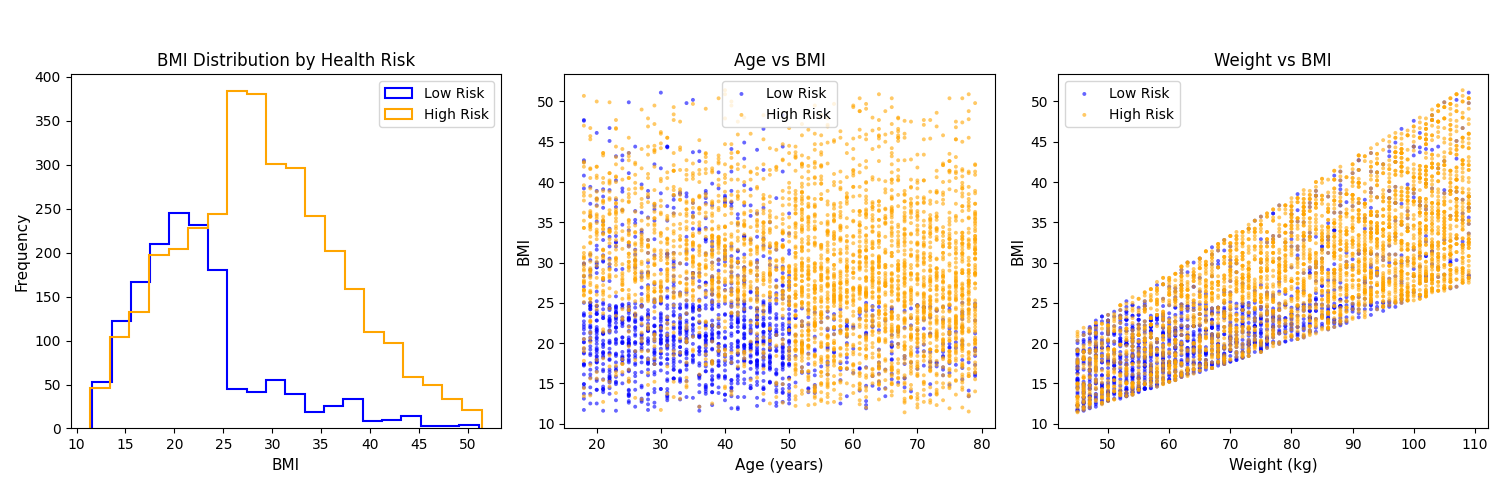
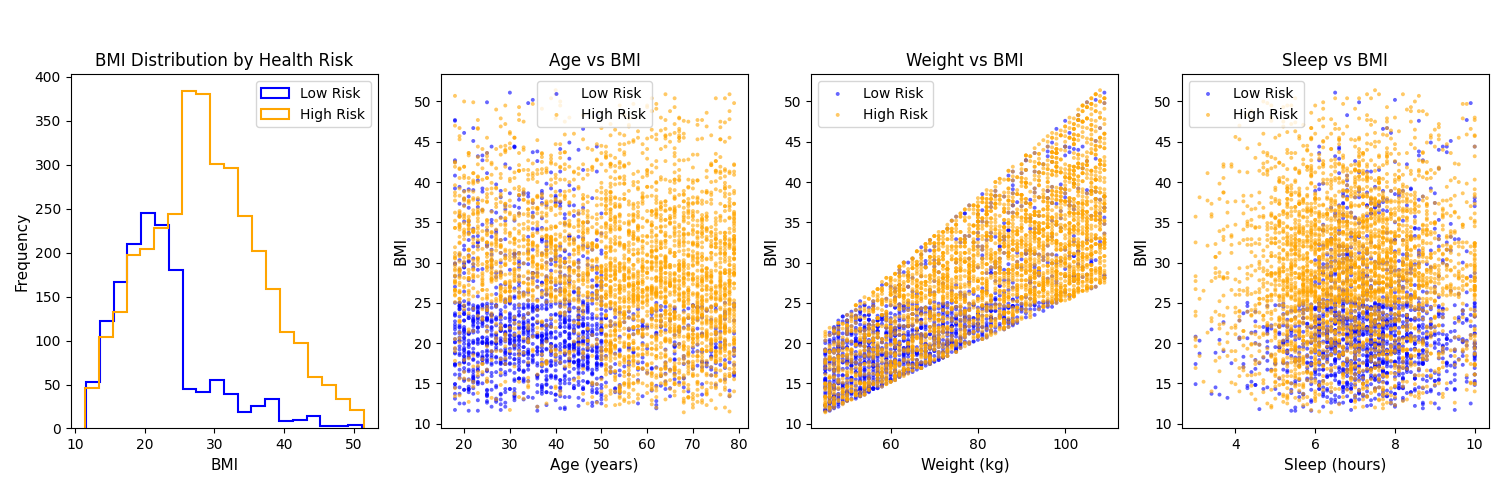
added sleep vs bmi scatter

diff --git a/CURE3/cure3.py b/CURE3/cure3.py
@@ -12,7 +12,7 @@ low = df[df["health_risk"].str.lower() == "low"]
 high = df[df["health_risk"].str.lower() == "high"]
 
 # figures
-fig, axes = plt.subplots(1, 3, figsize=(18, 5))
+fig, axes = plt.subplots(1, 4, figsize=(18, 5))
 
 # plot1: bmi vs health risk histogram
 axes[0].hist(low["bmi"], bins=20, histtype="step", color="blue", label="Low Risk", linewidth=1.5)
@@ -37,6 +37,14 @@ axes[2].set_xlabel("Weight (kg)", fontsize=11)
 axes[2].set_ylabel("BMI", fontsize=11)
 axes[2].set_title("Weight vs BMI", fontsize=12)
 axes[2].legend(frameon=True, fontsize=10)
+
+# plot4: sleep vs bmi scatter
+axes[3].scatter(low["sleep"], low["bmi"], color="blue", s=8, alpha=0.6, label="Low Risk", edgecolor="none")
+axes[3].scatter(high["sleep"], high["bmi"], color="orange", s=8, alpha=0.6, label="High Risk", edgecolor="none")
+axes[3].set_xlabel("Sleep (hours)", fontsize=11)
+axes[3].set_ylabel("BMI", fontsize=11)
+axes[3].set_title("Sleep vs BMI", fontsize=12)
+axes[3].legend(frameon=True, fontsize=10)
 
 plt.tight_layout(rect=[0, 0, 1, 0.95], pad=2.0)
 plt.show()
